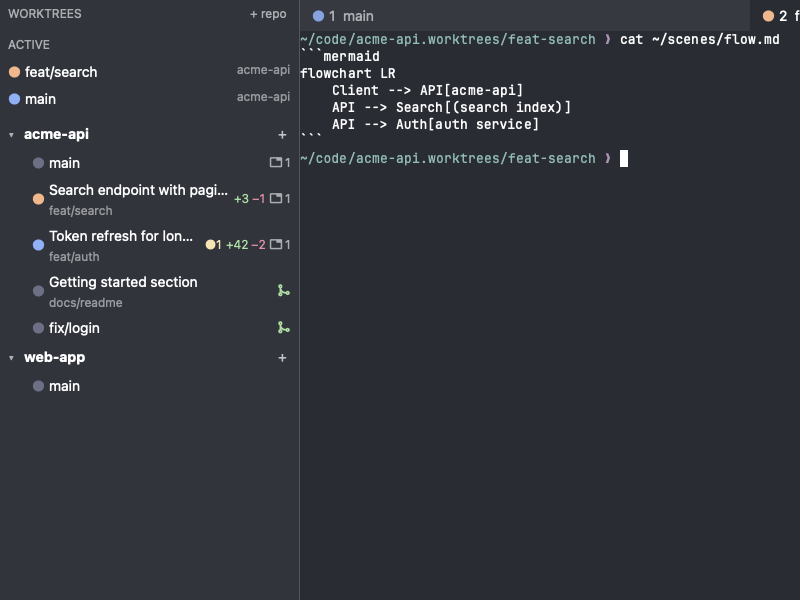
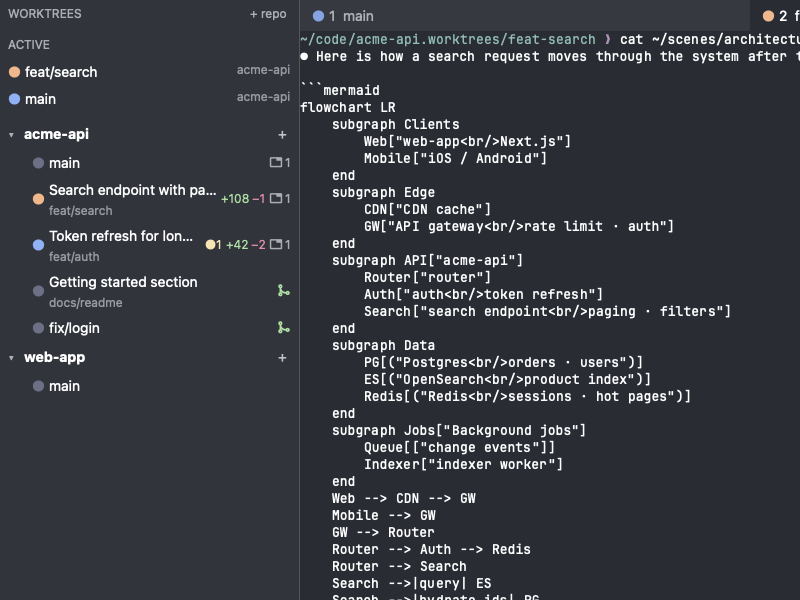
docs: show the Mermaid viewer and Markdown preview in the demo, README and site
The demo now follows an agent that prints an architecture diagram: the
palette's View last diagram, then the diagram as rendered in the browser,
then a Markdown RFC previewed from its folder, with its sequence diagram.
The README and site get a section with the rendered architecture diagram
and two views of the RFC; the hero shows the diagram source with its View
diagram button.

diff --git a/docs/site/index.html b/docs/site/index.html
@@ -57,6 +57,8 @@
   .col p { margin: 0; color: var(--muted); font-size: 15px; }
   .shots { display: grid; grid-template-columns: 1fr 1fr; gap: 16px; }
   .shots img { width: 100%; height: auto; border: 1px solid var(--line); border-radius: 10px; }
+  .wide { display: block; width: 100%; height: auto; margin-bottom: 16px; border: 1px solid var(--line); border-radius: 10px; }
+  .lead { color: var(--muted); margin: 0 0 16px; }
   pre { background: var(--code-bg); color: var(--code-fg); padding: 14px 16px; border-radius: 8px; overflow-x: auto; font-size: 14px; }
   dl dt { font-weight: 600; margin-top: 14px; }
   dl dd { margin: 4px 0 0; color: var(--muted); }
@@ -77,7 +79,7 @@
       <code id="cmd">brew tap magicsih/tap &amp;&amp; brew trust magicsih/tap &amp;&amp; brew install --cask chda</code>
       <button type="button" onclick="navigator.clipboard.writeText(document.getElementById('cmd').textContent).then(()=>{this.textContent='Copied'})">Copy</button>
     </div>
-    <div class="hero"><img src="demo.gif" alt="Agents report working and waiting in the sidebar, an agent creates a worktree with a note through chda mcp, a Mermaid diagram gets a View diagram button and an image shows inline" width="1200" height="750"></div>
+    <div class="hero"><img src="demo.gif" alt="Agents report working and waiting in the sidebar; an agent creates a worktree through chda mcp and prints an architecture diagram, which opens rendered in the browser; a Markdown design doc is previewed with its sequence diagram" width="1200" height="750"></div>
   </header>
 
   <section>
@@ -88,7 +90,7 @@
       <div class="col"><h3>Ghostty inside</h3><p>The VT core is libghostty-vt, so escapes, Unicode and keys behave like Ghostty. Your Ghostty font, colors and ligatures carry over.</p></div>
       <div class="col"><h3>Agents can drive it</h3><p><code>chda mcp</code> lets an agent create a worktree, open a tab or report its status. New worktrees show up in the sidebar at once.</p></div>
       <div class="col"><h3>Pick up where you left off</h3><p>After a restart, tabs, splits and directories come back, and panes that ran an agent reopen its conversation. Past sessions resume side by side.</p></div>
-      <div class="col"><h3>More than text</h3><p>Images through the Kitty graphics protocol, Mermaid diagrams rendered offline, and right-click actions on every file path in the output.</p></div>
+      <div class="col"><h3>More than text</h3><p>Images through the Kitty graphics protocol, Mermaid diagrams and Markdown files rendered offline in your browser, and right-click actions on every file path in the output.</p></div>
     </div>
   </section>
 
@@ -97,6 +99,16 @@
     <div class="shots">
       <img src="sidebar.png" alt="The sidebar: worktrees labeled by their notes, diff badges, merged and open-tab icons, agent status dots and the ACTIVE list" width="800" height="600">
       <img src="palette.png" alt="The command palette listing worktrees, agent launches and sessions" width="800" height="600">
+    </div>
+  </section>
+
+  <section>
+    <h2>Diagrams and Markdown, rendered offline</h2>
+    <p class="lead">Mermaid in an agent's answer opens as a diagram, and Markdown files open formatted, as local pages in your browser. Nothing is uploaded; scripts in the document do not run.</p>
+    <img class="wide" src="diagram.png" alt="An architecture flowchart with five subgraphs, from clients through the API gateway and acme-api to Postgres, OpenSearch, Redis and a background indexer, rendered from an agent's output" width="1600" height="460">
+    <div class="shots">
+      <img src="markdown.png" alt="A Markdown design doc previewed in the browser: title, status table, summary with a Note alert and a task list" width="1200" height="847">
+      <img src="markdown-flow.png" alt="The same doc's request flow: a Mermaid sequence diagram with a cache hit and miss branch" width="1200" height="847">
     </div>
   </section>
 

diff --git a/README.md b/README.md
@@ -1,5 +1,5 @@
 <p align="center">
-  <img src="docs/media/hero.png" alt="chda: a git worktree sidebar with notes, diff badges, merged and open-tab icons and agent status next to a terminal showing a Mermaid diagram" width="880">
+  <img src="docs/media/hero.png" alt="chda: a git worktree sidebar with notes, diff badges, merged and open-tab icons and agent status, next to an agent's Mermaid architecture diagram with its View diagram button" width="880">
 </p>
 
 <h1 align="center">chda</h1>
@@ -47,7 +47,7 @@ and adds pull request badges. On a managed Mac where Homebrew cannot write to
 ## Sixty-second tour
 
 <p align="center">
-  <img src="docs/media/demo.gif" alt="Agents report working and waiting in the sidebar, an agent creates a worktree with a note through chda mcp, a Mermaid diagram gets a View diagram button and an image shows inline" width="880">
+  <img src="docs/media/demo.gif" alt="Agents report working and waiting in the sidebar; an agent creates a worktree through chda mcp and prints an architecture diagram, which opens rendered in the browser; a Markdown design doc is previewed with its sequence diagram" width="880">
 </p>
 
 1. Press `cmd-shift-o` (or click "+ repo") and pick a git repository. It appears in
@@ -74,6 +74,23 @@ and adds pull request badges. On a managed Mac where Homebrew cannot write to
    then right-click it and choose "Merge into main and clean up". chda merges,
    removes the worktree and deletes the branch, and refuses when there are
    uncommitted changes, unpushed commits or an open pull request.
+
+## Diagrams and Markdown, rendered offline
+
+Agents answer with Mermaid diagrams and write design docs in Markdown. chda
+finds Mermaid in a pane's output ("View diagram" on the block, or "View last
+diagram" in the palette) and previews Markdown files (right-click a `.md` path,
+or "Preview Markdown" in the palette). Both open as local pages in your
+browser: nothing is uploaded, remote content is blocked and scripts in the
+document do not run. Mermaid blocks inside Markdown become diagrams too.
+
+<p align="center">
+  <img src="docs/media/diagram.png" alt="An architecture flowchart with five subgraphs, from clients through the API gateway and acme-api to Postgres, OpenSearch, Redis and a background indexer, rendered from an agent's output" width="880">
+</p>
+<p align="center">
+  <img src="docs/media/markdown.png" alt="A Markdown design doc previewed in the browser: title, status table, summary with a Note alert and a task list" width="434">
+  <img src="docs/media/markdown-flow.png" alt="The same doc's request flow: a Mermaid sequence diagram with a cache hit and miss branch" width="434">
+</p>
 
 ## Features
 
